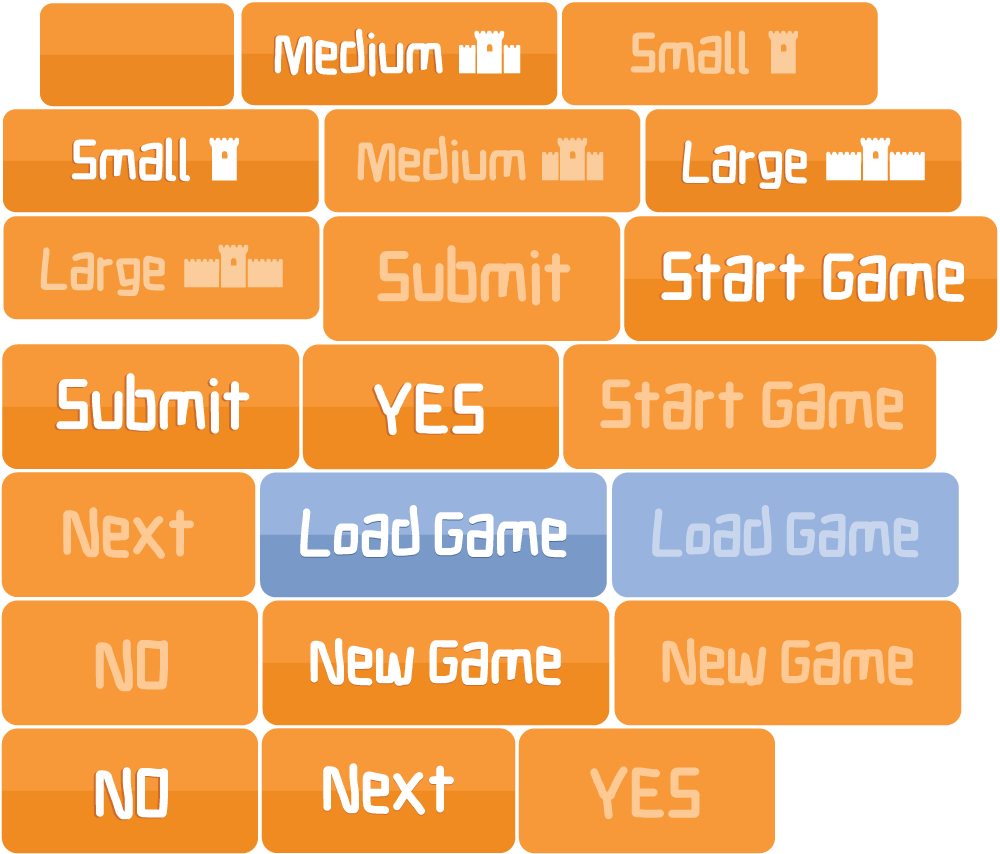
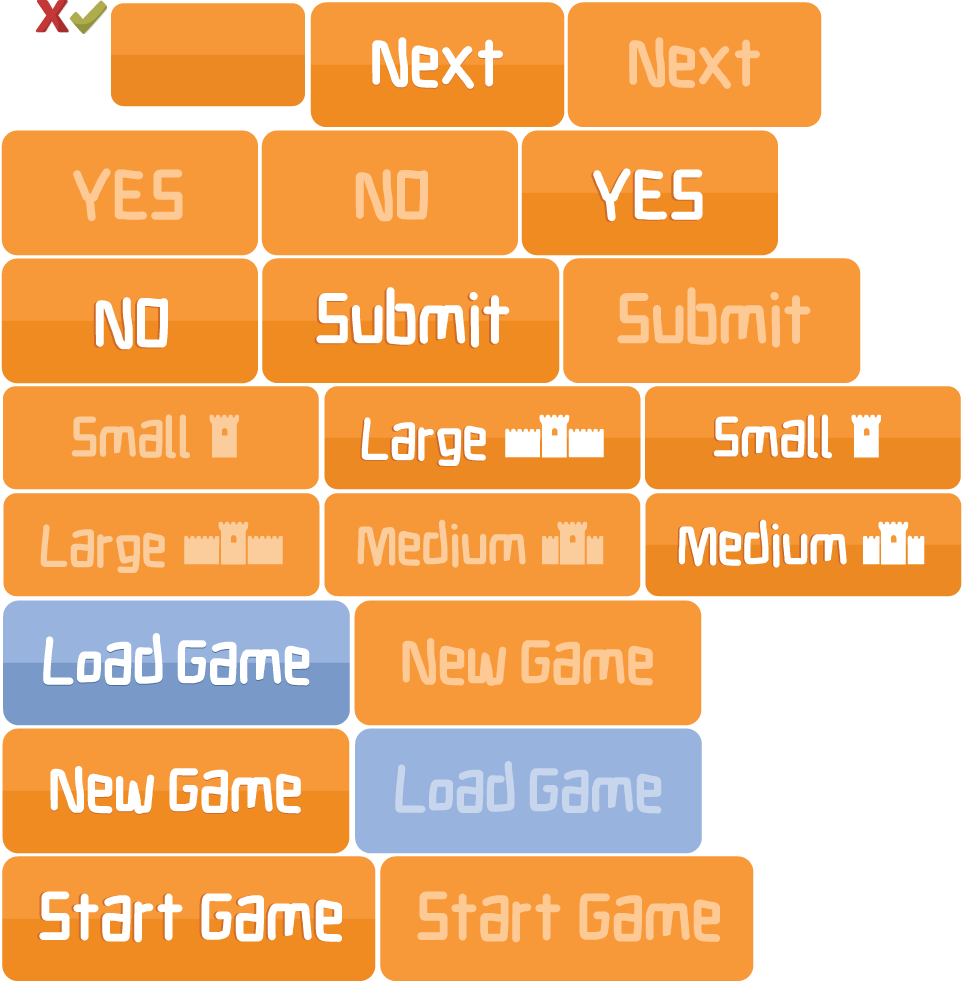
players Board created on the game scene

diff --git a/js/play.js b/js/play.js
@@ -41,7 +41,9 @@ var playState = {
         // ^^^ DELETE THIS UPPER ^^^
 
 		this.add.image(0, 0, "map" + Global.selectedMap);
-		
+		var playersBoard = this.add.image(5, 180, 'PlayersBoard');
+		playersBoard.scale.setTo(1.3, 0.115*Global.players.length);
+
 		this.btnSubmit = new ButtonX(this.game, 247, 940, "buttons", this.onSubmitClicked, this, "SubmitBTN");
 		this.btnSubmit.anchor.setTo(.5, 0);
 		this.game.world.add(this.btnSubmit);
@@ -87,9 +89,9 @@ var playState = {
 			p.avatar = game.add.sprite(0, 0, 'KnightFront'+player.avatar, 0, p);
 			p.avatar.scale.setTo(0.5, 0.5);
 
-			p.btnCorrect = new ButtonX(this.game, 342, 30, "misc", this.onCorrectClicked, p, "btn_correct");
+			p.btnCorrect = new ButtonX(this.game, 342, 30, "buttons", this.onCorrectClicked, p, "V");
 			p.add(p.btnCorrect);
-			p.btnWrong = new ButtonX(this.game, 420, 30, "misc", this.onWrongClicked, p, "btn_wrong");
+			p.btnWrong = new ButtonX(this.game, 420, 30, "buttons", this.onWrongClicked, p, "X");
 			p.add(p.btnWrong);
 			p.imgCorrect = new ButtonX(this.game, p.btnCorrect.x, p.btnCorrect.y, "misc", this.onCorrectClicked, p, "img_correct");
 			p.add(p.imgCorrect);
@@ -144,6 +146,7 @@ var playState = {
 			if (player.imgCorrect.visible === true) {
                 Global.players[player.id].score++;
                 player.score++;
+
                 var ladder = game.add.sprite(player.hero.x, 0, "Ladder", 0);
                 ladder.y = ladderYstart - player.score*ladderHeight;
                 ladder.anchor.setTo(.5, .5);
